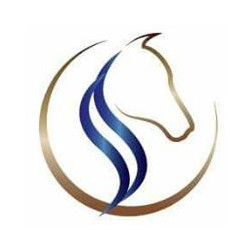
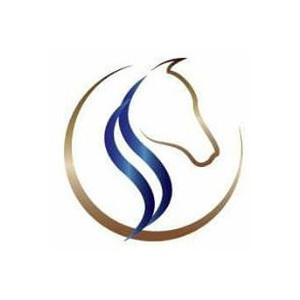
Fixed stagnaro sponsor image size

Changed region(s): [[0.14, 0.112, 0.896, 0.868]]

diff --git a/_includes/sponsors.html b/_includes/sponsors.html
@@ -31,7 +31,7 @@
       <div class="sponsor col-lg-3 col-md-6 col-sm-6 col-xs-6">
         <a target="_blank" href="https://www.facebook.com/stagnarostack/">
           <div class="sponsor-image">
-            {% include lazy_image.html src="./img/sponsors/stagnaro-tack-apparel-small" width="250" height="250" %}
+            {% include lazy_image.html src="./img/sponsors/stagnaro-tack-apparel-small" width="300" height="300" %}
           </div>
           <h4 class="sponsor-title">Stagnaro Tack and Apparel</h4>
         </a>
